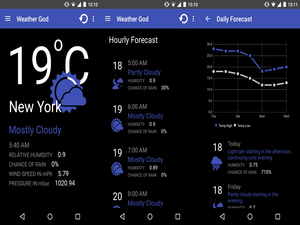
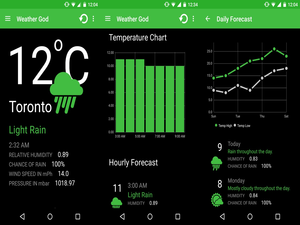
Added status bar color

diff --git a/README.md b/README.md
@@ -14,4 +14,4 @@ A minimalistic weather app for Android.
 
 ##Snapshots
 
- ![alt tag](https://raw.githubusercontent.com/DeekshithShetty/Weather-God/master/Snapshots/snapshot-7.png)
+ ![alt tag](https://raw.githubusercontent.com/DeekshithShetty/Weather-God/master/Snapshots/snapshot-5.png)			![alt tag](https://raw.githubusercontent.com/DeekshithShetty/Weather-God/master/Snapshots/snapshot-6.png)
